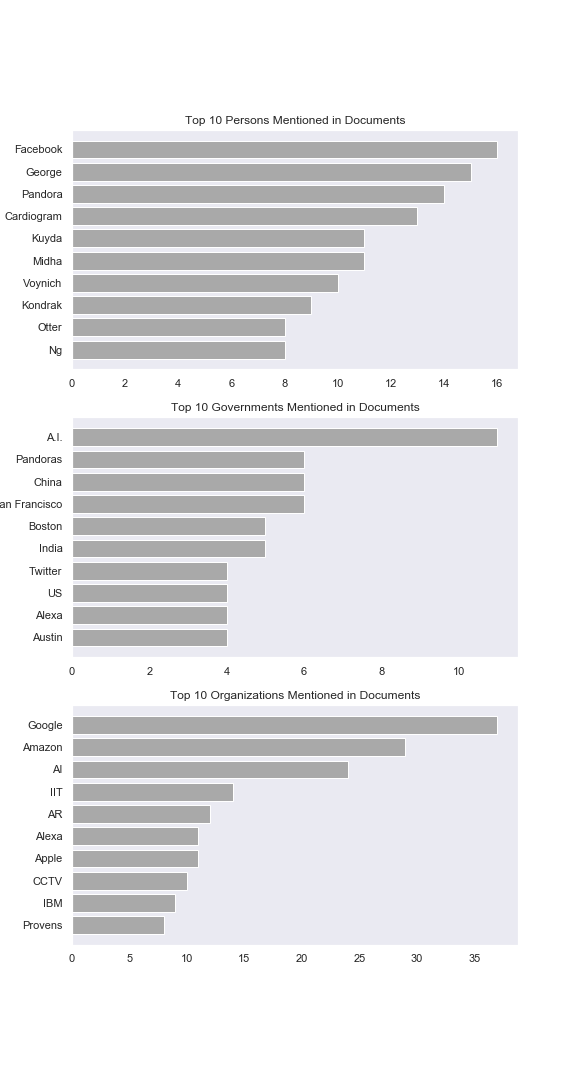
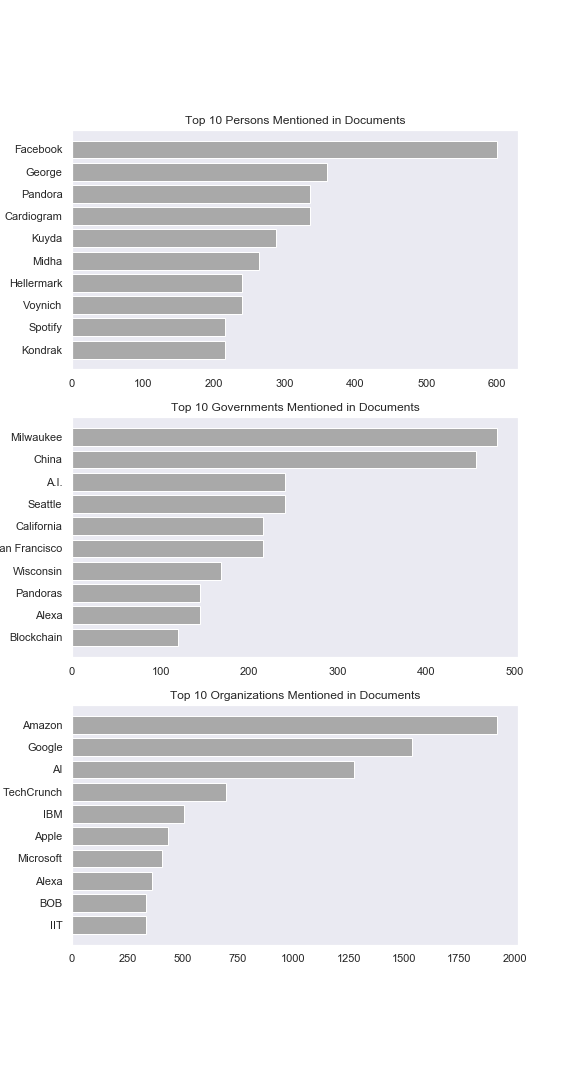
Tweaked main and tools

diff --git a/MatTools.py b/MatTools.py
@@ -36,6 +36,10 @@ def clean_content(content):
     
     text=expand_contractions(text)
     
+#    text = re.sub('[^a-zA-Z]', ' ', text )
+
+    text = re.sub(r'\s+', ' ', text)
+    
 #    text=remove_special_characters(text)
     
 #    text=(lemmatize_text(text))
@@ -54,17 +58,13 @@ def build_summaries(df):
 
         article_text=clean_content(doc)
 
-        formatted_article_text = re.sub('[^a-zA-Z]', ' ', article_text )
-
-        formatted_article_text = re.sub(r'\s+', ' ', formatted_article_text)
-
-        sentence_list = nltk.sent_tokenize(formatted_article_text)
+        sentence_list = nltk.sent_tokenize(article_text)
 
         stopwords = nltk.corpus.stopwords.words('english')
 
         word_frequencies = {}
 
-        for word in nltk.word_tokenize(formatted_article_text):
+        for word in nltk.word_tokenize(article_text):
 
             if word not in stopwords:
 

diff --git a/main.py b/main.py
@@ -15,7 +15,9 @@ filepath='C:\\Users\\589636\\Documents\\Jupyter_Notebook\\Deep Learning\\'
 with open(filepath+filename+filetype) as f: 
     text=json.load(f)
 
-df=pd.DataFrame(text)
+df=pd.DataFrame(text[400:600])
+
+df=df.head(100)
 
 summaries=build_summaries(df)
 
@@ -29,4 +31,4 @@ df.to_excel('./'+filename+'_output.xlsx')
 
 visualize_labels(df)
 
-print('Complete. Processed '+str(len(df))+'records.')
+print('Complete. Processed '+str(len(df))+' records.')
